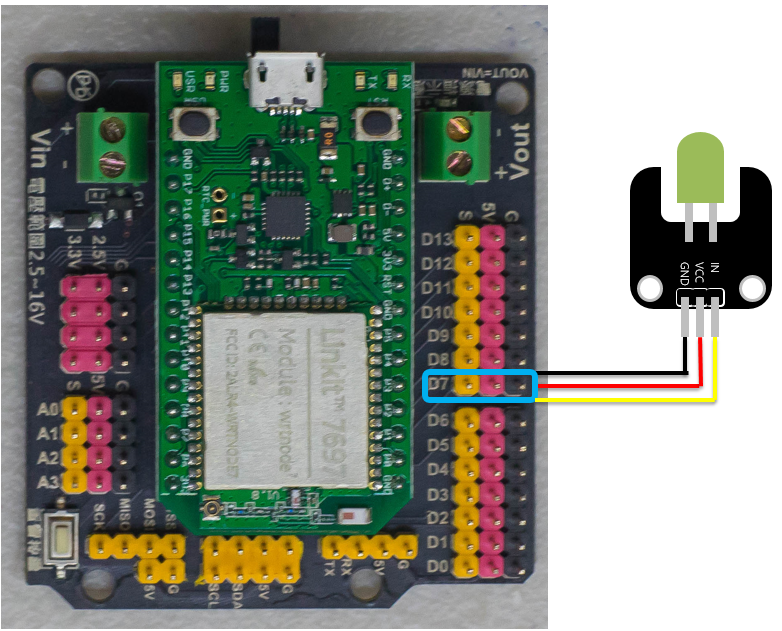
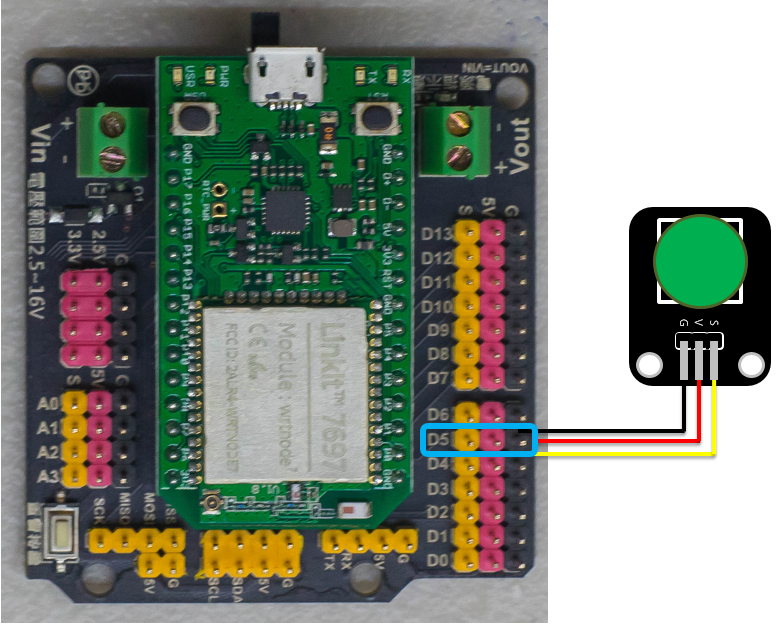
GitBook: [master] 2 pages and 6 assets modified

Changed region(s): [[0.0, 0.0, 1.0, 1.0], [0.401, 0.5463, 0.4319, 0.5767], [0.3393, 0.607, 0.3702, 0.6374]]

diff --git a/rk002/mo-zu-shi-yong-jiao-xue/005.md b/rk002/mo-zu-shi-yong-jiao-xue/005.md
@@ -1,44 +1,45 @@
-# 005
+# 按鈕模組
 
 ## 專案說明
 
-使用「Funduino UNO」連接「亮度感測器」, 每0.2秒讀取亮度感測器數值。
+使用「科易KEYES Arduino UNO R3 開發板」連接「按鈕模組」, 讀取按鈕模組按下或放開的狀態。
 
-此**亮度感測器**包含於**「洞洞么教學材料包 Education Kit 001」**內。
+此**按鈕模組**包含於**「洞洞兩教學材料包 Education Kit 002」**內。
 
 ## 電路圖
 
-* Funduino UNO
-* 亮度感測器
+* KEYES Arduino UNO R3
+* 按鈕模組
 
-**亮度感測器**是**類比訊號**輸入， 可以接「A0 ~ A3」的 LinkIt 7697 NANO Breakout訊號端上，「A0 ~ A3」在程式代表「14 ~ 17」。 本範例連接到「**A0」**
+**按鈕模組**是**數位訊號輸入**， 可以接「D0 ~ D13」的 KEYES Arduino UNO R3訊號端上。 本範例連接到「**D3」**
 
-![](../../.gitbook/assets/0.png)
+![](../../.gitbook/assets/0%20%286%29.png)
 
 ## 積木畫布
 
-每0.2秒鐘會讀取亮度感測器一次， 並顯示在序列埠監控視窗上。
+每0.2秒鐘會讀取按鈕模組狀態一次， 並可透過序列埠監控視窗看到按鈕模組的狀態 。沒按按鈕時顯示為1，按下按鈕時顯示為0。
 
-![](../../.gitbook/assets/1.png)
+![](../../.gitbook/assets/1%20%282%29.png)
 
-  
 產生出的 Arduino 程式如下
 
-void setup\(\)
+`void setup()`
 
-{
+`{`
 
- Serial.begin\(9600\);
+ `pinMode(3, INPUT);`
 
-}
+ `Serial.begin(9600);`
 
-void loop\(\)
+`}`
 
-{
+`void loop()`
 
- Serial.println\(analogRead\(14\)\);
+`{`
 
- delay\(500\);
+ `Serial.println(digitalRead(3));`
 
-}
+ `delay(200);`
+
+`}`
 

diff --git a/SUMMARY.md b/SUMMARY.md
@@ -62,5 +62,5 @@
     * [熱敏（溫度）模組](rk001/module_ui/linkit7697_temperature.md)
 * [洞洞兩教學材料包](rk002/README.md)
   * [模組使用教學](rk002/mo-zu-shi-yong-jiao-xue/README.md)
-    * [005](rk002/mo-zu-shi-yong-jiao-xue/005.md)
+    * [按鈕模組](rk002/mo-zu-shi-yong-jiao-xue/005.md)
 
